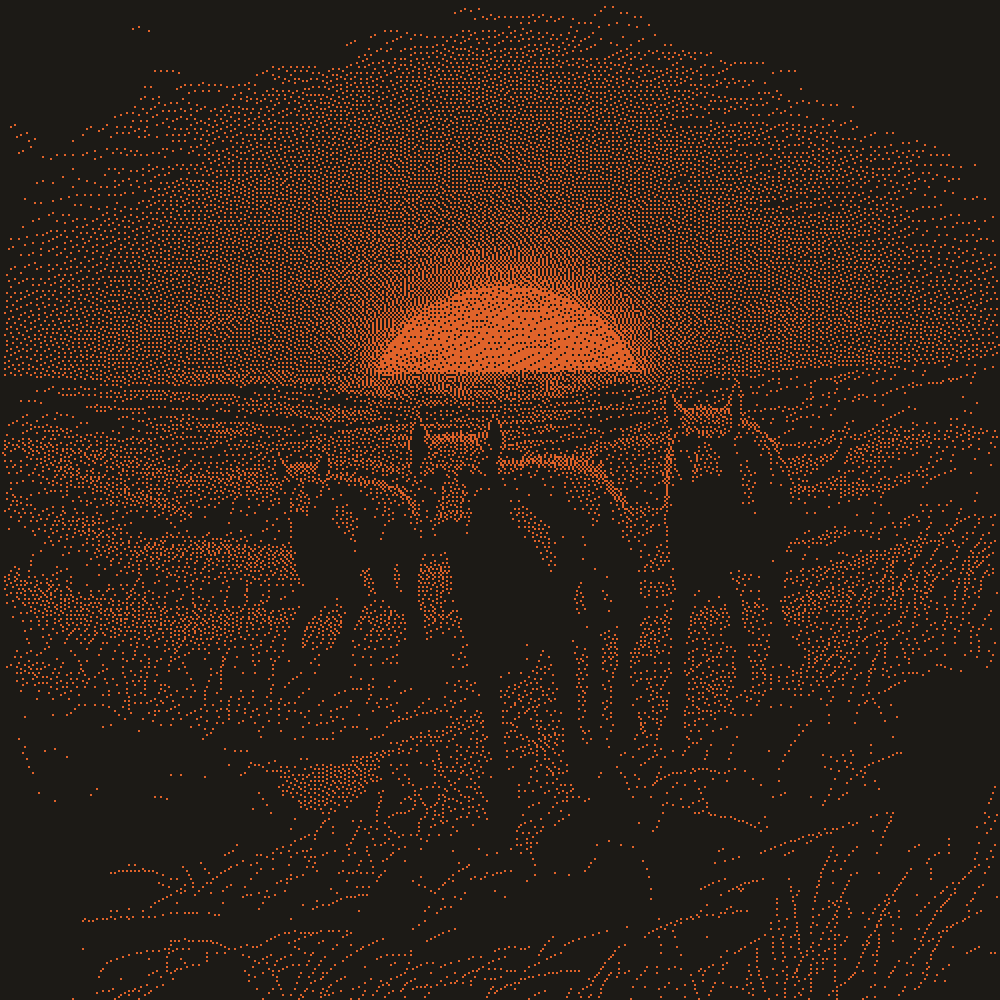
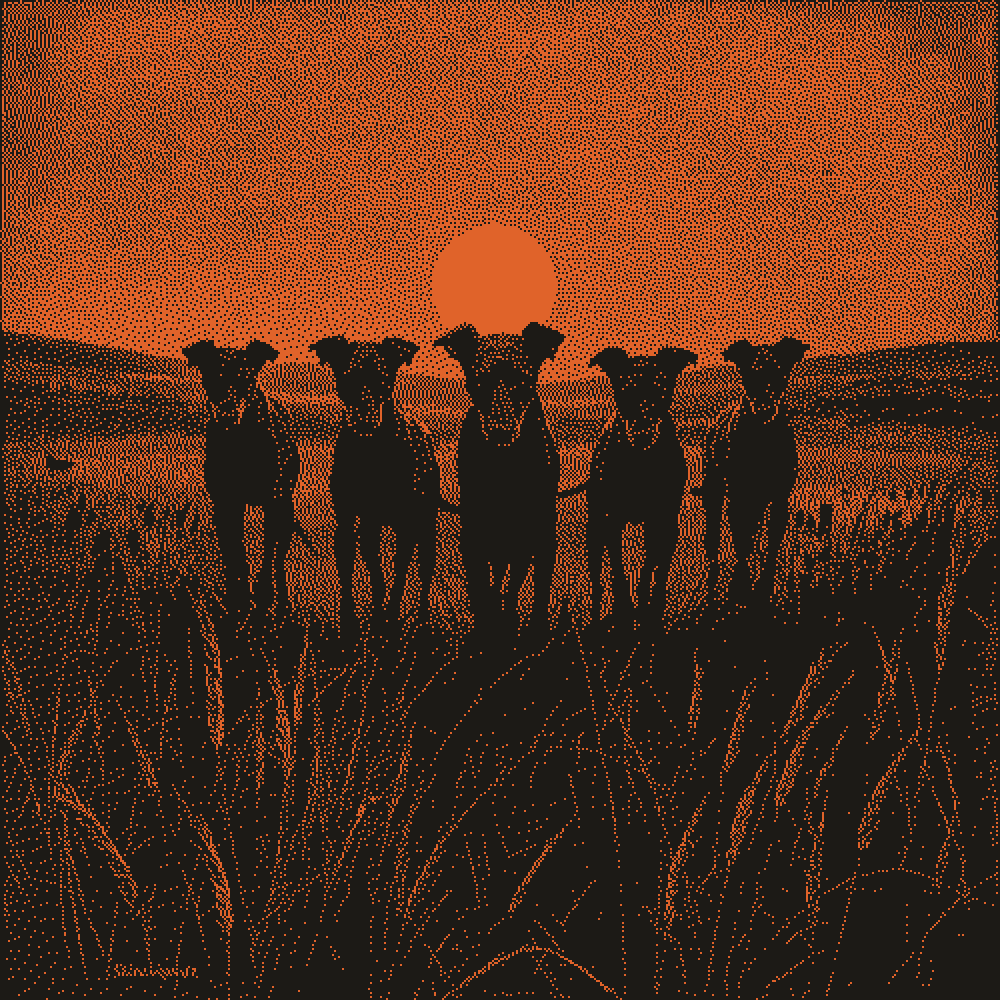
Re-sync Drive assets (2e passe) : refresh meute grise / petite fixée, réserve 13 nouveaux fichiers
Les dossiers 03_Validé du Drive mélangent maintenant les assets de la zone
donjon obsolète et Les Landes. 21 fichiers pertinents récupérés et vérifiés
(signature PNG + taille exacte). monstre_meute_grise_c.png et
monstre_petite_fixee_c.png étaient déjà référencés par nom dans le code :
leur contenu à jour est repris automatiquement, sans modification de code.
Les 13 fichiers restants (rencontres/chapitres pas encore écrits, mécanique
Vent qui ment pas implémentée, pool des 18 liaisons pas câblé, variante
ambiguë du Pendu Mal Fixé) sont conservés sur disque mais volontairement
pas câblés — détail dans CLAUDE.md.

Claude-Session: https://claude.ai/code/session_015My4MqrUD9CADDLuz9Wdmt

diff --git a/aldenhar/lib/version.ts b/aldenhar/lib/version.ts
@@ -149,5 +149,10 @@
  *           fossoyeur du Champ et la Veuve de la chapelle. La marche entre deux
  *           lieux prend l'image du chemin qu'on emprunte (creux, sud, hameau)
  *           au lieu d'une vue tirée au hasard.
+ *   1.18.2 — Re-synchro Drive du 25/07 (2e passe) : deux images déjà en jeu
+ *           mises à jour (meute grise = 6 chiens à contre-jour, petite fixée
+ *           dédupliquée) ; 13 nouveaux fichiers récupérés et vérifiés mais
+ *           volontairement pas câblés (rencontres/chapitres/liaisons pas
+ *           encore écrits côté code) — voir CLAUDE.md pour le détail.
  */
-export const APP_VERSION = "1.18.1";
+export const APP_VERSION = "1.18.2";

diff --git a/aldenhar/public/sw.js b/aldenhar/public/sw.js
@@ -13,7 +13,7 @@
    dur. `cache.add("./")` → la racine servie, `cache.add("assets/x.png")`
    → <base>/assets/x.png, etc. */
 
-const CACHE_VERSION = "pactum-v30";
+const CACHE_VERSION = "pactum-v31";
 
 /* Coquille précachée à l'installation : les pages navigables + les
    assets à nom STABLE affichés tôt (logo, Geôlier, cadre). On NE code

diff --git a/CLAUDE.md b/CLAUDE.md
@@ -500,3 +500,19 @@ Demande Patrick : nouvelles photos déposées dans le Drive d'après les scripts
 - Technique de copie inchangée (éprouvée depuis le 24/07) : `download_file_content` par petits lots → `scratchpad/extract_drive.py` lit le base64 par titre dans le transcript `.jsonl`, décode, vérifie signature PNG **et taille exacte** annoncée par le Drive. Zéro retranscription de b64 par le modèle. 17/17 fichiers écrits sans erreur. Les 14 câblés vérifiés 2 couleurs exactes (Charbon/Orange) et 1000×1000.
 - `landes.json` (matière de production, pas lu au runtime) synchronisé sur les mêmes 7 ids ; script de contrôle : toutes ses références `illustration` existent sur disque, et les 44 références de `scene-data.ts` aussi.
 - `APP_VERSION` 1.18.0 → **1.18.1**, `CACHE_VERSION` v29 → **v30**.
+
+### Session 2026-07-25 (suite, Claude Code, sonnet) — re-vérification Drive 03_Validé (2e passe, zone Landes uniquement)
+Demande Patrick : re-pull, comparer les trois dossiers `03_Validé_{Environnement,Rencontres,Objets}` du Drive (mélangent maintenant les assets de la zone donjon obsolète — `scene_donjon_*`, `monstre_loup_squelette`… — et les Landes) contre `public/assets/`, copier ce qui est pertinent pour Les Landes, mapper aux scènes/rencontres/lieux, et rendre un récapitulatif de ce qui est câblé vs orphelin. Contrainte : Drive en lecture seule, dithering jamais retouché.
+- `git pull` fait en tout début de session (rien à rebaser, aucune modif locale non commitée avant de commencer).
+- **21 fichiers pertinents identifiés et récupérés** (technique de copie inchangée depuis le 24/07 : `download_file_content` par lots de ≤6 → script `extract_drive2.py` lit le b64 par titre dans le transcript `.jsonl`, décode, vérifie signature PNG **et taille exacte** annoncée par le Drive — zéro retranscription de b64 par le modèle). 21/21 écrits sans erreur, tailles exactes confirmées. Dossier Objets confirmé sans changement (0 nouveau/modifié), comme annoncé par Patrick. Les 20 fichiers `donjon_*`/`caverne_*`/etc. de la zone obsolète explicitement exclus (liste dans `scratchpad/drive_manifest2.json`, clé `exclus_donjon`).
+- **2 images DÉJÀ EN JEU mises à jour** (mêmes noms de fichier, contenu remplacé — aucun changement de code nécessaire, le refresh est automatique) : `monstre_meute_grise_c.png` (32 950 o, nouvelle version « 6 chiens à contre-jour d'un soleil », remplace l'ancienne 25 522 o, câblée sur `meute-grise-1`/`meute-grise-2`) et `monstre_petite_fixee_c.png` (13 622 o, dédupliquée par Patrick — un seul fichier canonique maintenant côté Drive — remplace l'ancienne 22 629 o ; reste un ORPHELIN côté code, aucune scène « petite fixée » n'existe encore).
+- **13 fichiers nouveaux, volontairement PAS câblés** (vérifiés présents sur disque, prêts pour de futures sessions) :
+  - `monstre_pendu_mal_fixe_v1_b.png` — relation ambiguë avec `monstre_pendu_mal_fixe_a.png` déjà câblé sur la scène `pendu-mal-fixe` ; pas de signal permettant de trancher variante vs remplacement → laissé de côté plutôt que deviné, à valider par Patrick.
+  - `scene_landes_hameau_croix_craie_a.png` / `scene_landes_hameau_puits_b.png` — l'architecture actuelle des points d'intérêt (POI, session 24/07 vague 4) fait ses « plans rapprochés » par crop CSS de l'illustration du LIEU, pas par asset dédié par point — donc pas de slot évident où les poser sans redéfinir cette règle. `_puits_b` en particulier est ambigu : remplace `scene_puits_condamne_c.png` déjà en jeu, ou vue distincte du Puits vu depuis le Hameau ?
+  - `monstre_ombre_grand_gibet_a.png`, `monstre_deserteur_tribunal_a.png` — rencontres pas encore écrites dans `scene-data.ts`.
+  - `monstre_vent_qui_ment_b.png` / `_d.png` — la mécanique « Vent qui ment » (leurre sensoriel sur les orientations, notée le 21/07) n'est toujours pas implémentée.
+  - `monstre_gamin_murets_a.png`, `monstre_la_fille_c.png`, `scene_gibet_vide_c.png`, `scene_landes_tribunal_b.png` — liés aux 4 chapitres du Bailli, dont le texte actuel (`chapters-data.ts`) reste provisoire (écrit par Claude Code, pas par Patrick) ; ce fichier n'a de toute façon pas de champ `illustration` — pas de slot où les poser sans construire la vague 4 (chapitres réécrits depuis les Scripts Notion, en attente depuis le 24/07).
+  - 6× `scene_transition_*` (`arrivee_hameau_b`, `crete_cordes_b`, `chemin_murets_b`, `croisee_sud_b`, `croix_craie_c`, `hommes_suivent_b`, `vols_basses_b`) — matière pour le pool des 18 liaisons ÉCRITES de la page Scripts Notion, toujours pas implémenté (le système actuel de liaisons contextuelles, session 24/07 vague 4, génère son texte par variantes plutôt que par les 18 entrées figées).
+- `data/zones/landes.json` (matière de production, pas lu au runtime) inchangé cette passe — les 2 fichiers mis à jour y étaient déjà référencés par les mêmes noms, donc déjà à jour automatiquement ; aucun des 13 nouveaux n'y correspond à une entrée `illustration` vide qui appellerait une mise à jour immédiate.
+- Build + lint vérifiés propres (`next build` avec `PAGES_BASE_PATH=/Pat/aldenhar`, `npm run lint` — seul le warning police préexistant). `APP_VERSION` 1.18.1 → **1.18.2**, `CACHE_VERSION` v30 → **v31**.
+- **Récapitulatif demandé par Patrick** : câblé = 2 refreshs silencieux (meute grise, petite fixée) sur assets déjà en jeu, zéro changement de code. Orphelins = les 13 fichiers ci-dessus, tous conservés sur disque et documentés ici avec la raison précise de chaque blocage (variante ambiguë, pas de slot d'architecture, contenu pas encore écrit, ou mécanique pas encore codée) — à reprendre dès que la vague 4 (chapitres + 18 liaisons) ou une clarification de Patrick lève le blocage.
